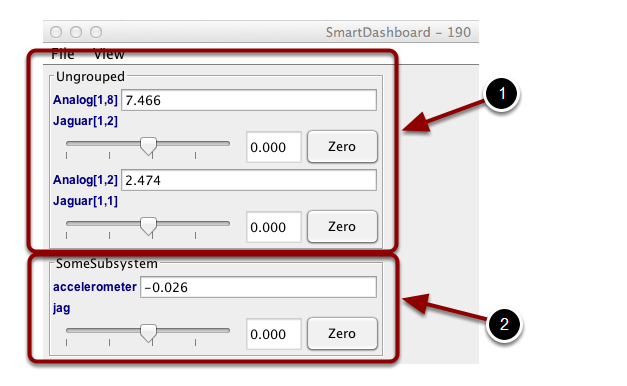
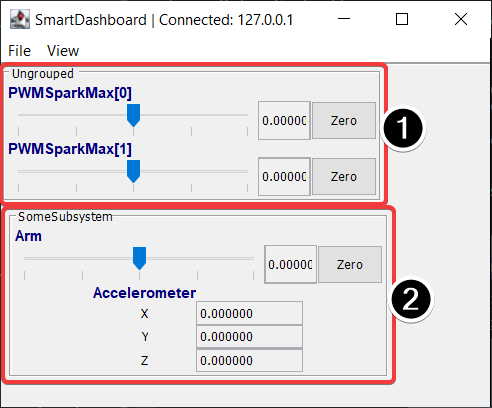
Update SmartDashboard Livewindow / Test Mode docs
Fix code examples
Update screenshots
Rewrite Test Mode article to reference exiting LiveWindow Smartdashboard
docs, removing duplicated and conflicting information
Moves Test mode article from VS Code to Basic Programming
Add link to Test mode article from DS, and add other mode descriptions
Fixes #514

diff --git a/source/docs/software/dashboards/smartdashboard/test-mode-and-live-window/enabling-test-mode.rst b/source/docs/software/dashboards/smartdashboard/test-mode-and-live-window/enabling-test-mode.rst
@@ -14,10 +14,38 @@ Enable Test Mode in the Driver Station by clicking on the "Test" button and sett
 Explicitly vs. implicit test mode display
 -----------------------------------------
 
-.. image:: images/enabling-test-mode/explicit-test-mode-display.png
-   :alt: Highlights explicitly adding sensors to test in code.
+.. tabs::
 
-All sensors and actuators will automatically be displayed on the SmartDashboard in test mode and will be named using the object type (such as Jaguar, Analog, Victor, etc.) with the module number and channel number with which the object was created. In addition, the program can explicitly add sensors and actuators to the test mode display, in which case programmer-defined subsystem and object names can be specified making the program clearer. This example illustrates explicitly defining those sensors and actuators in the highlighted code.
+    .. code-tab:: java
+
+        PWMSparkMax leftDrive;
+        PWMSparkMax rightDrive;
+        PWMVictorSPX arm;
+        BuiltInAccelerometer accel;
+
+        @Override
+        public void robotInit() {
+          leftDrive = new PWMSparkMax(0);
+          rightDrive = new PWMSparkMax(1);
+          arm = new PWMVictorSPX(2);
+          accel = new BuiltInAccelerometer();
+          SendableRegistry.addLW(arm, "SomeSubsystem", "Arm");
+          SendableRegistry.addLW(accel, "SomeSubsystem", "Accelerometer");
+        }
+
+    .. code-tab:: cpp
+
+        frc::PWMSparkMax leftDrive{0};
+        frc::PWMSparkMax rigthDrive{1};
+        frc::BuiltInAccelerometer accel{};
+        frc::PWMVictorSPX arm{3};
+
+        void Robot::RobotInit() {
+          wpi::SendableRegistry::AddLW(&arm, "SomeSubsystem", "Arm");
+          wpi::SendableRegistry::AddLW(&accel, "SomeSubsystem", "Accelerometer");
+        }
+
+All sensors and actuators will automatically be displayed on the SmartDashboard in test mode and will be named using the object type (such as PWMSparkMax, PWMVictorSPX, BuiltInAccelerometer, etc.) with channel number with which the object was created. In addition, the program can explicitly add sensors and actuators to the test mode display, in which case programmer-defined subsystem and object names can be specified making the program clearer. This example illustrates explicitly defining those sensors and actuators.
 
 Understanding what is displayed in Test mode
 --------------------------------------------
@@ -25,4 +53,4 @@ Understanding what is displayed in Test mode
 .. image:: images/enabling-test-mode/test-mode-display.png
    :alt: Highlights both ungrouped and subsystem motors displayed in test mode.
 
-This is the output in the SmartDashboard display when the robot is placed into test mode. In the display shown above the objects listed as Ungrouped were implicitly created by WPILib when the corresponding objects were created. These objects are contained in a subsystem group called "Ungrouped" **(1)** and are named with the device type (Analog, Jaguar in this case), and the module and channel numbers. The objects shown in the "SomeSubsystem" **(2)** group are explicitly created by the programmer from the code example in the previous section. These are named in the calls to ``LiveWindow.addActuator()`` and ``LiveWindow.AddSensor()``. Explicitly created sensors and actuators will be grouped by the specified subsystem.
+This is the output in the SmartDashboard display when the robot is placed into test mode. In the display shown above the objects listed as Ungrouped were implicitly created by WPILib when the corresponding objects were created. These objects are contained in a subsystem group called "Ungrouped" **(1)** and are named with the device type (PWMSparkMax in this case), and the channel numbers. The objects shown in the "SomeSubsystem" **(2)** group are explicitly created by the programmer from the code example in the previous section. These are named in the calls to ``SendableRegistry.addLW()``. Explicitly created sensors and actuators will be grouped by the specified subsystem.

diff --git a/source/docs/software/dashboards/smartdashboard/test-mode-and-live-window/displaying-LiveWindow-values.rst b/source/docs/software/dashboards/smartdashboard/test-mode-and-live-window/displaying-LiveWindow-values.rst
@@ -1,9 +1,7 @@
 Displaying LiveWindow Values
 ============================
 
-.. note:: LiveWindow will automatically add your sensors for you. There is no need to do it manually.
-
-LiveWindow values may also be displayed by writing the code yourself and adding it to your robot program. LiveWindow will display values grouped in subsystems. This is a convenient method of displaying whether they are actual command based program subsystems or just a grouping that you decide to use in your program.
+LiveWindow will automatically add your sensors and actuators for you. There is no need to do it manually. LiveWindow values may also be displayed by writing the code yourself and adding it to your robot program. This allows you to customize the names and group them in subsystems. This is a convenient method of displaying whether they are actual command based program subsystems or just a grouping that you decide to use in your program.
 
 Adding the Necessary Code to your Program
 -----------------------------------------
@@ -15,24 +13,50 @@ For each sensor or actuator that is created, set the subsystem name and display 
     .. code-tab:: java
 
         Ultrasonic ultrasonic = new Ultrasonic(1, 2);
-        ultrasonic.setName("Arm", "Ultrasonic");
+        SendableRegistry.setName(ultrasonic, "Arm", "Ultrasonic");
 
         Jaguar elbow = new Jaguar(1);
-        elbow.setName("Arm", "Elbow");
+        SendableRegistry.setName(elbow, "Arm", "Elbow");
 
         Victor wrist = new Victor(2);
-        wrist.setName("Arm", "Wrist");
+        SendableRegistry.setName(wrist, "Arm", "Wrist");
 
     .. code-tab:: cpp
 
         frc::Ultrasonic ultrasonic{1, 2};
-        ultrasonic.SetName("Arm", "Ultrasonic");
+        SendableRegistry::SetName(ultrasonic, "Arm", "Ultrasonic");
 
         frc::Jaguar elbow{1};
-        elbow.SetName("Arm", "Elbow");
+        SendableRegistry::SetName(elbow, "Arm", "Elbow");
 
         frc::Victor wrist{2};
-        wrist.SetName("Arm", "Wrist");
+        SendableRegistry::SetName(wrist, "Arm", "Wrist");
+
+If your objects are in a ``Subsystem``, this can be simplified using the addChild method of ``SubsystemBase``
+
+.. tabs::
+
+    .. code-tab:: java
+
+        Ultrasonic ultrasonic = new Ultrasonic(1, 2);
+        addChild("Ultrasonic", ultrasonic);
+
+        Jaguar elbow = new Jaguar(1);
+        addChild("Elbow", elbow);
+
+        Victor wrist = new Victor(2);
+        addChild("Wrist", wrist);
+
+    .. code-tab:: cpp
+
+        frc::Ultrasonic ultrasonic{1, 2};
+        AddChild("Ultrasonic", ultrasonic);
+
+        frc::Jaguar elbow{1};
+        AddChild("Elbow", elbow);
+
+        frc::Victor wrist{2};
+        AddChild("Wrist", wrist);
 
 Viewing the Display in SmartDashboard
 -----------------------------------------

diff --git a/source/docs/software/basic-programming/using-test-mode.rst b/source/docs/software/basic-programming/using-test-mode.rst
@@ -1,0 +1,26 @@
+Using Test Mode
+===============
+
+Test mode is designed to enable programmers to have a place to put code to verify that all systems on the robot are functioning. In each of the robot program templates there is a place to add test code to the robot.
+
+Enabling Test Mode
+------------------
+
+.. image:: /docs/software/dashboards/smartdashboard/test-mode-and-live-window/images/enabling-test-mode/setting-test-mode-driver-station.png
+   :alt: Selecting the "Test" button on the Driver Station and then "Enable".
+
+Test mode on the robot can be enabled from the Driver Station just like autonomous or teleop. To enable test mode in the Driver Station, select the "Test" button and enable the robot. The test mode code will then run.
+
+LiveWindow in Test Mode
+-----------------------
+
+With LiveWindow, all actuator's outputs can be controlled on the Dashboard and all sensor values can be seen. PID Controllers can also be tuned. The sensors and actuators are added automatically, no code is necessary. See :doc:`/docs/software/dashboards/smartdashboard/test-mode-and-live-window/index` for more details.
+
+Adding Test mode code to your robot code
+----------------------------------------
+
+When in test mode, the ``testInit`` method is run once, and the testPeriodic method is run once per tick, in addition to ``robotPeriodic``, similar to teleop and autonomous control modes.
+
+Adding test mode can be as painless as calling your already written Teleop methods from Test. Or you can write special code to try out a new feature that is only run in Test mode, before integrating it into your teleop or autonomous code. You could even write code to move all motors and check all sensors to help the pit crew!
+
+.. warning:: If you write your own test code, it may interfere with the LiveWindow code that can control actuators and is enabled automatically. You may need to call ``LiveWindow.getInstance().setEnabled(false)`` in your testInit method to avoid this.

diff --git a/source/docs/software/driverstation/driver-station.rst b/source/docs/software/driverstation/driver-station.rst
@@ -48,7 +48,13 @@ Operation Tab
 
 The Operations Tab is used to control the mode of the robot and provide additional key status indicators while the robot is running.
 
-1. Robot Mode - This section controls the Robot Mode. Practice Mode causes the robot to cycle through the same transitions as an FRC match after the Enable button is pressed (timing for practice mode can be found on the setup tab).
+1. Robot Mode - This section controls the Robot Mode.
+
+  - Teleopoperated Mode causes the robot to run the code in the Teleoperated portion of the match.
+  - Autonomous Mode causes the robot to run the code in the Autonomous portion of the match.
+  - Practice Mode causes the robot to cycle through the same transitions as an FRC match after the Enable button is pressed (timing for practice mode can be found on the setup tab).
+  - :doc:`Test Mode </docs/software/basic-programming/using-test-mode>` is an additional mode where test code that doesn't run in a regular match can be tested.
+
 2. Enable/Disable - These controls enable and disable the robot. See also `Driver Station Key Shortcuts`_
 3. Elapsed Time - Indicates the amount of time the robot has been enabled
 4. PC Battery - Indicates current state of DS PC battery and whether the PC is plugged in

diff --git a/source/docs/software/vscode-overview/index.rst b/source/docs/software/vscode-overview/index.rst
@@ -12,4 +12,3 @@ VS Code Overview
    viewing-console-output
    debugging-robot-program
    importing-gradle-project
-   using-test-mode

diff --git a/source/docs/software/basic-programming/index.rst b/source/docs/software/basic-programming/index.rst
@@ -7,4 +7,5 @@ Basic Programming
    git-getting-started.rst
    cpp-units
    joystick
+   using-test-mode
    reading-stacktraces
